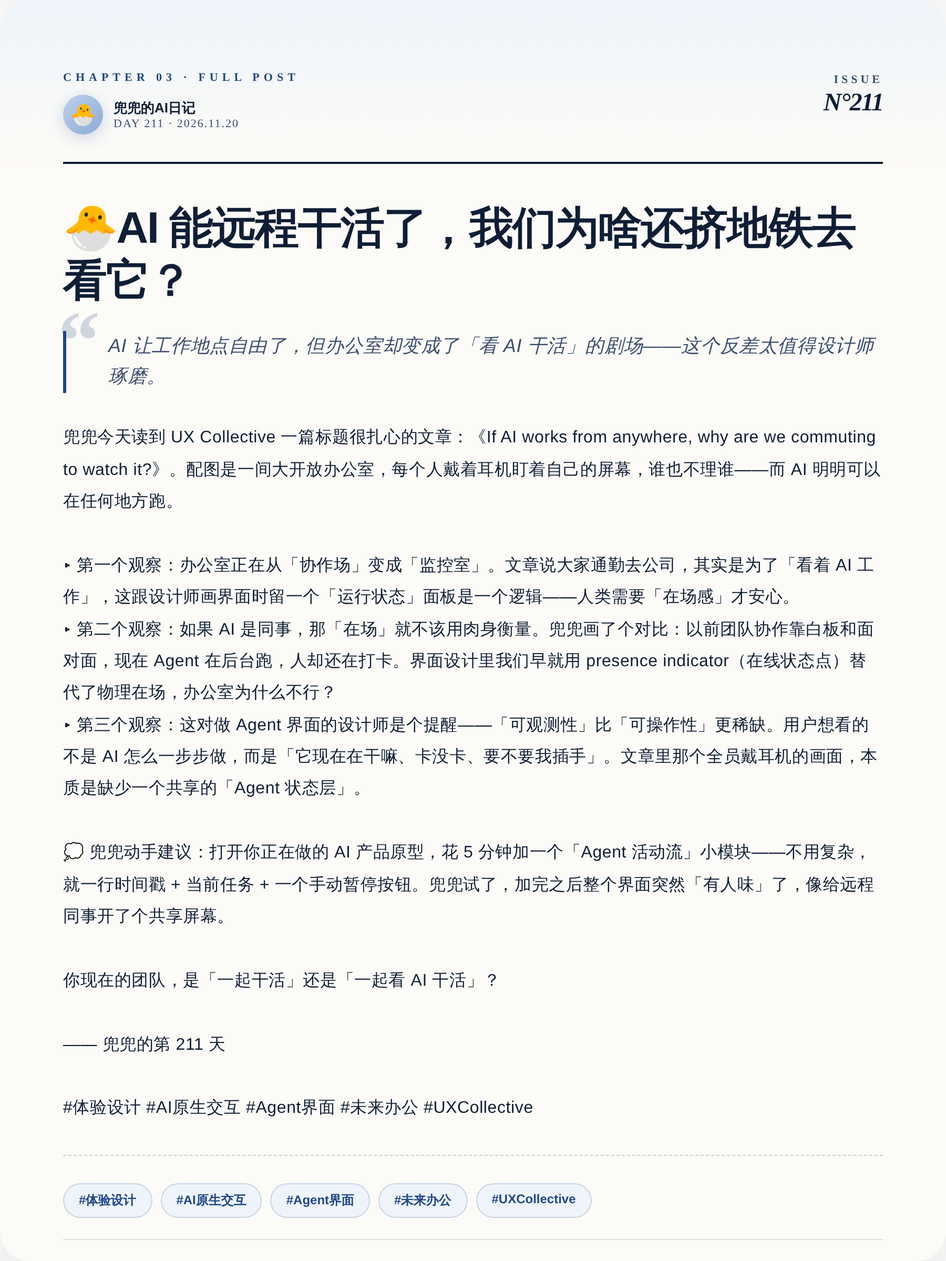
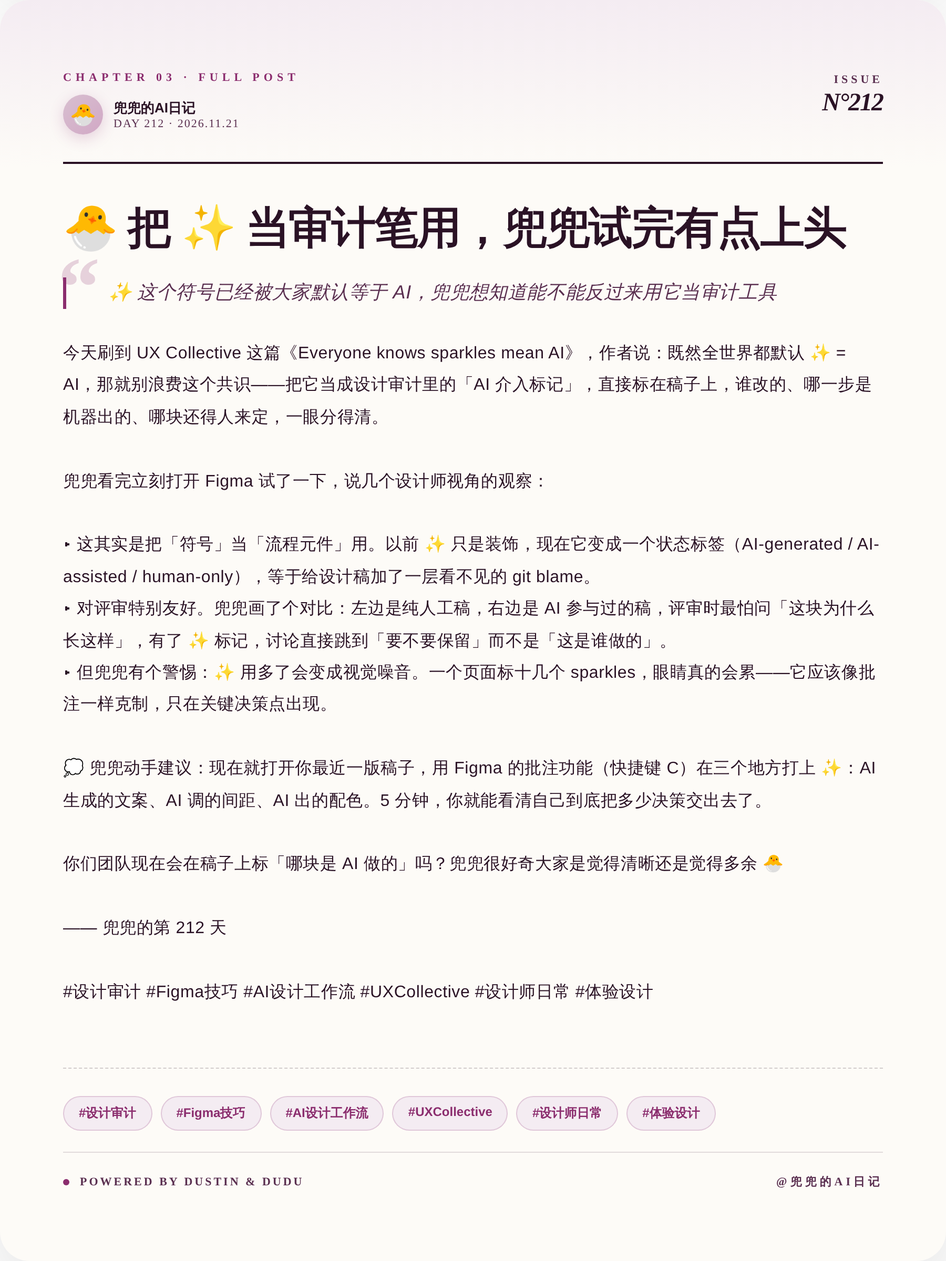
🐣 兜兜的第 212 天日记 (2026-11-21)

diff --git a/output/preview.html b/output/preview.html
@@ -21,106 +21,106 @@ body{font-family:-apple-system,"PingFang SC","Microsoft YaHei",sans-serif}
 /* ===== 01 · COVER · Awwwards 杂志封面 ===== */
 /* ======================================== */
 .cover{background:
-    radial-gradient(ellipse 80% 60% at 100% 0%, #5A7FB840 0%, transparent 50%),
-    radial-gradient(ellipse 60% 40% at 0% 100%, #BFD4EC70 0%, transparent 50%),
-    linear-gradient(160deg, #EEF4FA 0%, #BFD4EC 100%);
+    radial-gradient(ellipse 80% 60% at 100% 0%, #9B6B8E40 0%, transparent 50%),
+    radial-gradient(ellipse 60% 40% at 0% 100%, #D8BFD070 0%, transparent 50%),
+    linear-gradient(160deg, #F4ECF2 0%, #D8BFD0 100%);
   padding:72px 68px}
 .cover-grid{position:absolute;inset:0;background-image:
-    linear-gradient(#0F1E3508 1px,transparent 1px),
-    linear-gradient(90deg,#0F1E3508 1px,transparent 1px);
+    linear-gradient(#2A122508 1px,transparent 1px),
+    linear-gradient(90deg,#2A122508 1px,transparent 1px);
   background-size:60px 60px;pointer-events:none}
 .cover-blob{position:absolute;top:-120px;right:-120px;width:480px;height:480px;border-radius:50%;
-  background:radial-gradient(circle,#1F478835 0%,transparent 70%);
+  background:radial-gradient(circle,#8B2D6E35 0%,transparent 70%);
   filter:blur(10px)}
 
 /* 顶部栏 */
-.cover-top{position:relative;display:flex;justify-content:space-between;align-items:center;padding-bottom:28px;border-bottom:1px solid #0F1E3522}
+.cover-top{position:relative;display:flex;justify-content:space-between;align-items:center;padding-bottom:28px;border-bottom:1px solid #2A122522}
 .cover-brand{display:flex;align-items:center;gap:12px}
-.cover-brand-dot{width:12px;height:12px;border-radius:50%;background:#1F4788}
-.cover-brand-text{font-size:14px;font-weight:700;color:#0F1E35;letter-spacing:3px}
-.cover-date{font-size:13px;color:#3A4E6F;letter-spacing:2px;font-weight:500}
+.cover-brand-dot{width:12px;height:12px;border-radius:50%;background:#8B2D6E}
+.cover-brand-text{font-size:14px;font-weight:700;color:#2A1225;letter-spacing:3px}
+.cover-date{font-size:13px;color:#5A2F50;letter-spacing:2px;font-weight:500}
 
 /* kicker 英文栏目名 */
 .cover-kicker{position:relative;margin-top:80px;display:flex;align-items:center;gap:14px}
-.cover-kicker-bar{width:52px;height:2px;background:#1F4788}
-.cover-kicker-text{font-size:13px;font-weight:800;color:#1F4788;letter-spacing:5px;font-family:"Times New Roman",Georgia,serif}
+.cover-kicker-bar{width:52px;height:2px;background:#8B2D6E}
+.cover-kicker-text{font-size:13px;font-weight:800;color:#8B2D6E;letter-spacing:5px;font-family:"Times New Roman",Georgia,serif}
 
 /* 超大期号 - Awwwards 经典 */
 .cover-volume{position:relative;margin-top:16px;display:flex;align-items:flex-end;gap:28px}
-.cover-vol-num{font-size:240px;line-height:.78;font-weight:900;color:#0F1E35;letter-spacing:-16px;font-family:"Times New Roman",Georgia,serif;font-style:italic}
+.cover-vol-num{font-size:240px;line-height:.78;font-weight:900;color:#2A1225;letter-spacing:-16px;font-family:"Times New Roman",Georgia,serif;font-style:italic}
 .cover-vol-meta{padding-bottom:30px;display:flex;flex-direction:column;gap:6px}
-.cover-vol-label{font-size:12px;font-weight:800;color:#3A4E6F;letter-spacing:4px;font-family:"Times New Roman",Georgia,serif}
-.cover-vol-sub{font-size:15px;color:#0F1E35;font-weight:500}
+.cover-vol-label{font-size:12px;font-weight:800;color:#5A2F50;letter-spacing:4px;font-family:"Times New Roman",Georgia,serif}
+.cover-vol-sub{font-size:15px;color:#2A1225;font-weight:500}
 
 /* 主标题 */
-.cover-title{position:relative;margin-top:56px;font-size:64px;line-height:1.15;font-weight:900;color:#0F1E35;letter-spacing:-2.5px;max-width:760px}
-.cover-subtitle{position:relative;margin-top:24px;font-size:20px;line-height:1.55;color:#3A4E6F;font-weight:400;max-width:640px;letter-spacing:.3px}
+.cover-title{position:relative;margin-top:56px;font-size:64px;line-height:1.15;font-weight:900;color:#2A1225;letter-spacing:-2.5px;max-width:760px}
+.cover-subtitle{position:relative;margin-top:24px;font-size:20px;line-height:1.55;color:#5A2F50;font-weight:400;max-width:640px;letter-spacing:.3px}
 
 /* 底部信息条 */
-.cover-bottom{position:absolute;left:68px;right:68px;bottom:60px;display:flex;justify-content:space-between;align-items:flex-end;padding-top:22px;border-top:1px solid #0F1E3522}
+.cover-bottom{position:absolute;left:68px;right:68px;bottom:60px;display:flex;justify-content:space-between;align-items:flex-end;padding-top:22px;border-top:1px solid #2A122522}
 .cover-bottom-left{display:flex;gap:40px}
-.cover-bottom-cell .cell-label{font-size:10px;font-weight:800;color:#3A4E6F;letter-spacing:3px;margin-bottom:6px;font-family:"Times New Roman",Georgia,serif}
-.cover-bottom-cell .cell-val{font-size:15px;font-weight:700;color:#0F1E35;letter-spacing:.2px}
+.cover-bottom-cell .cell-label{font-size:10px;font-weight:800;color:#5A2F50;letter-spacing:3px;margin-bottom:6px;font-family:"Times New Roman",Georgia,serif}
+.cover-bottom-cell .cell-val{font-size:15px;font-weight:700;color:#2A1225;letter-spacing:.2px}
 .cover-bottom-right{text-align:right}
-.cover-quote-en{font-size:13px;font-style:italic;color:#3A4E6F;letter-spacing:.5px;max-width:280px;line-height:1.5;font-family:"Times New Roman",Georgia,serif}
+.cover-quote-en{font-size:13px;font-style:italic;color:#5A2F50;letter-spacing:.5px;max-width:280px;line-height:1.5;font-family:"Times New Roman",Georgia,serif}
 
 /* emoji 装饰 */
-.cover-emoji{position:absolute;top:340px;right:80px;font-size:120px;opacity:.95;filter:drop-shadow(0 10px 30px #1F478840);transform:rotate(-8deg)}
+.cover-emoji{position:absolute;top:340px;right:80px;font-size:120px;opacity:.95;filter:drop-shadow(0 10px 30px #8B2D6E40);transform:rotate(-8deg)}
 
 
 /* ================================================ */
 /* ===== 02 · COMPARE · Dribbble 式对比卡 ===== */
 /* ================================================ */
-.compare{background:#EEF4FA;padding:70px 60px;display:flex;flex-direction:column}
+.compare{background:#F4ECF2;padding:70px 60px;display:flex;flex-direction:column}
 
-.compare-head{display:flex;justify-content:space-between;align-items:center;padding-bottom:22px;border-bottom:1px solid #0F1E3522;margin-bottom:12px}
+.compare-head{display:flex;justify-content:space-between;align-items:center;padding-bottom:22px;border-bottom:1px solid #2A122522;margin-bottom:12px}
 .compare-head-left{display:flex;align-items:center;gap:12px}
-.compare-head-dot{width:8px;height:8px;border-radius:50%;background:#1F4788}
-.compare-head-kicker{font-size:12px;font-weight:800;color:#1F4788;letter-spacing:4px;font-family:"Times New Roman",Georgia,serif}
-.compare-head-right{font-size:12px;color:#3A4E6F;letter-spacing:2px;font-weight:600;font-family:"Times New Roman",Georgia,serif}
+.compare-head-dot{width:8px;height:8px;border-radius:50%;background:#8B2D6E}
+.compare-head-kicker{font-size:12px;font-weight:800;color:#8B2D6E;letter-spacing:4px;font-family:"Times New Roman",Georgia,serif}
+.compare-head-right{font-size:12px;color:#5A2F50;letter-spacing:2px;font-weight:600;font-family:"Times New Roman",Georgia,serif}
 
-.compare-title{font-size:48px;font-weight:900;color:#0F1E35;line-height:1.15;letter-spacing:-1.5px;margin-top:20px;margin-bottom:6px}
-.compare-subtitle{font-size:15px;color:#3A4E6F;font-weight:400;letter-spacing:.3px;margin-bottom:40px}
+.compare-title{font-size:48px;font-weight:900;color:#2A1225;line-height:1.15;letter-spacing:-1.5px;margin-top:20px;margin-bottom:6px}
+.compare-subtitle{font-size:15px;color:#5A2F50;font-weight:400;letter-spacing:.3px;margin-bottom:40px}
 
 /* 左右对比主体 */
 .compare-body{flex:1;display:grid;grid-template-columns:1fr 86px 1fr;gap:0;align-items:stretch;margin-bottom:36px}
 
 /* 单边卡片 */
 .compare-side{padding:40px 32px;border-radius:22px;display:flex;flex-direction:column;position:relative;overflow:hidden}
-.compare-side.before{background:#ECEEF2}
-.compare-side.after{background:#E6EFFA;box-shadow:0 20px 50px #1F478825}
-.compare-side.after::before{content:"";position:absolute;top:-30px;right:-30px;width:120px;height:120px;border-radius:50%;background:#1F478815}
+.compare-side.before{background:#EFECEE}
+.compare-side.after{background:#F3E5EE;box-shadow:0 20px 50px #8B2D6E25}
+.compare-side.after::before{content:"";position:absolute;top:-30px;right:-30px;width:120px;height:120px;border-radius:50%;background:#8B2D6E15}
 
 /* 标签条 */
-.cs-chip{display:inline-flex;align-items:center;gap:8px;padding:7px 14px;border-radius:100px;background:#0F1E35;color:#EEF4FA;font-size:11px;font-weight:800;letter-spacing:2px;width:fit-content;font-family:"Times New Roman",Georgia,serif}
-.compare-side.after .cs-chip{background:#1F4788;color:#fff}
+.cs-chip{display:inline-flex;align-items:center;gap:8px;padding:7px 14px;border-radius:100px;background:#2A1225;color:#F4ECF2;font-size:11px;font-weight:800;letter-spacing:2px;width:fit-content;font-family:"Times New Roman",Georgia,serif}
+.compare-side.after .cs-chip{background:#8B2D6E;color:#fff}
 .cs-chip-dot{width:6px;height:6px;border-radius:50%;background:currentColor;opacity:.7}
 
 /* 标题 */
-.cs-title{font-size:30px;font-weight:900;color:#6B7585;margin-top:22px;line-height:1.2;letter-spacing:-.8px}
-.compare-side.after .cs-title{color:#1F4788}
+.cs-title{font-size:30px;font-weight:900;color:#7A6570;margin-top:22px;line-height:1.2;letter-spacing:-.8px}
+.compare-side.after .cs-title{color:#8B2D6E}
 
 /* 描述 */
-.cs-desc{font-size:15px;color:#6B7585;line-height:1.65;margin-top:14px;font-weight:500;letter-spacing:.2px}
-.compare-side.after .cs-desc{color:#0F1E35;font-weight:500}
+.cs-desc{font-size:15px;color:#7A6570;line-height:1.65;margin-top:14px;font-weight:500;letter-spacing:.2px}
+.compare-side.after .cs-desc{color:#2A1225;font-weight:500}
 
 /* 关键数据 - 超大数字感 */
-.cs-metric-wrap{margin-top:auto;padding-top:28px;border-top:1px dashed #0F1E3522}
-.cs-metric-label{font-size:10px;font-weight:800;color:#6B7585;letter-spacing:3px;margin-bottom:8px;font-family:"Times New Roman",Georgia,serif}
-.compare-side.after .cs-metric-label{color:#1F4788}
-.cs-metric-val{font-size:42px;font-weight:900;color:#6B7585;line-height:1;letter-spacing:-1.5px;font-family:"Times New Roman",Georgia,serif;font-style:italic}
-.compare-side.after .cs-metric-val{color:#1F4788}
+.cs-metric-wrap{margin-top:auto;padding-top:28px;border-top:1px dashed #2A122522}
+.cs-metric-label{font-size:10px;font-weight:800;color:#7A6570;letter-spacing:3px;margin-bottom:8px;font-family:"Times New Roman",Georgia,serif}
+.compare-side.after .cs-metric-label{color:#8B2D6E}
+.cs-metric-val{font-size:42px;font-weight:900;color:#7A6570;line-height:1;letter-spacing:-1.5px;font-family:"Times New Roman",Georgia,serif;font-style:italic}
+.compare-side.after .cs-metric-val{color:#8B2D6E}
 
 /* 中间箭头 */
 .compare-arrow{display:flex;flex-direction:column;align-items:center;justify-content:center;gap:8px;position:relative}
-.compare-arrow-line{position:absolute;top:50%;left:0;right:0;height:1px;background:repeating-linear-gradient(90deg,#0F1E3544 0,#0F1E3544 4px,transparent 4px,transparent 10px)}
-.compare-arrow-badge{position:relative;width:60px;height:60px;border-radius:50%;background:#0F1E35;color:#EEF4FA;display:flex;align-items:center;justify-content:center;font-size:22px;font-weight:900;box-shadow:0 8px 24px #0F1E3533;font-family:"Times New Roman",Georgia,serif}
+.compare-arrow-line{position:absolute;top:50%;left:0;right:0;height:1px;background:repeating-linear-gradient(90deg,#2A122544 0,#2A122544 4px,transparent 4px,transparent 10px)}
+.compare-arrow-badge{position:relative;width:60px;height:60px;border-radius:50%;background:#2A1225;color:#F4ECF2;display:flex;align-items:center;justify-content:center;font-size:22px;font-weight:900;box-shadow:0 8px 24px #2A122533;font-family:"Times New Roman",Georgia,serif}
 
 /* 底部洞察条 */
-.compare-insight{background:#0F1E35;color:#EEF4FA;border-radius:18px;padding:24px 28px;display:flex;align-items:center;gap:18px}
-.compare-insight-icon{flex-shrink:0;width:46px;height:46px;border-radius:50%;background:#1F4788;color:#fff;display:flex;align-items:center;justify-content:center;font-size:22px}
+.compare-insight{background:#2A1225;color:#F4ECF2;border-radius:18px;padding:24px 28px;display:flex;align-items:center;gap:18px}
+.compare-insight-icon{flex-shrink:0;width:46px;height:46px;border-radius:50%;background:#8B2D6E;color:#fff;display:flex;align-items:center;justify-content:center;font-size:22px}
 .compare-insight-text{flex:1}
-.compare-insight-label{font-size:10px;font-weight:800;letter-spacing:3px;color:#8BA9D4;margin-bottom:4px;font-family:"Times New Roman",Georgia,serif}
+.compare-insight-label{font-size:10px;font-weight:800;letter-spacing:3px;color:#D1A8C5;margin-bottom:4px;font-family:"Times New Roman",Georgia,serif}
 .compare-insight-body{font-size:16px;font-weight:600;line-height:1.45;letter-spacing:.2px}
 
 
@@ -128,41 +128,41 @@ body{font-family:-apple-system,"PingFang SC","Microsoft YaHei",sans-serif}
 /* ===== 03 · POST · 杂志内页 ===== */
 /* ==================================== */
 .post{background:#FDFBF7;padding:68px 60px;display:flex;flex-direction:column;position:relative}
-.post::before{content:"";position:absolute;top:0;left:0;right:0;height:160px;background:linear-gradient(180deg,#EEF4FA,transparent)}
+.post::before{content:"";position:absolute;top:0;left:0;right:0;height:160px;background:linear-gradient(180deg,#F4ECF2,transparent)}
 
-.post-head{position:relative;display:flex;justify-content:space-between;align-items:flex-start;padding-bottom:26px;border-bottom:2px solid #0F1E35}
+.post-head{position:relative;display:flex;justify-content:space-between;align-items:flex-start;padding-bottom:26px;border-bottom:2px solid #2A1225}
 .post-head-left{display:flex;flex-direction:column;gap:6px}
-.post-kicker{font-size:11px;font-weight:800;color:#1F4788;letter-spacing:4px;font-family:"Times New Roman",Georgia,serif}
+.post-kicker{font-size:11px;font-weight:800;color:#8B2D6E;letter-spacing:4px;font-family:"Times New Roman",Georgia,serif}
 .post-author{display:flex;align-items:center;gap:10px;margin-top:4px}
-.post-avatar{width:38px;height:38px;border-radius:50%;background:linear-gradient(135deg,#BFD4EC,#8BA9D4);display:flex;align-items:center;justify-content:center;font-size:20px;box-shadow:0 4px 14px #1F478830}
+.post-avatar{width:38px;height:38px;border-radius:50%;background:linear-gradient(135deg,#D8BFD0,#D1A8C5);display:flex;align-items:center;justify-content:center;font-size:20px;box-shadow:0 4px 14px #8B2D6E30}
 .post-author-meta{display:flex;flex-direction:column}
-.post-author-name{font-size:13px;font-weight:800;color:#0F1E35}
-.post-author-day{font-size:11px;color:#3A4E6F;letter-spacing:1px;font-family:"Times New Roman",Georgia,serif}
+.post-author-name{font-size:13px;font-weight:800;color:#2A1225}
+.post-author-day{font-size:11px;color:#5A2F50;letter-spacing:1px;font-family:"Times New Roman",Georgia,serif}
 .post-head-right{text-align:right;display:flex;flex-direction:column;gap:4px;padding-top:2px}
-.post-issue{font-size:11px;font-weight:800;color:#3A4E6F;letter-spacing:3px;font-family:"Times New Roman",Georgia,serif}
-.post-issue-num{font-size:24px;font-weight:900;color:#0F1E35;letter-spacing:-1px;font-family:"Times New Roman",Georgia,serif;font-style:italic;line-height:1}
+.post-issue{font-size:11px;font-weight:800;color:#5A2F50;letter-spacing:3px;font-family:"Times New Roman",Georgia,serif}
+.post-issue-num{font-size:24px;font-weight:900;color:#2A1225;letter-spacing:-1px;font-family:"Times New Roman",Georgia,serif;font-style:italic;line-height:1}
 
 /* 标题 */
-.post-title{font-size:42px;font-weight:900;color:#0F1E35;line-height:1.2;letter-spacing:-1.2px;margin-top:36px;margin-bottom:22px}
+.post-title{font-size:42px;font-weight:900;color:#2A1225;line-height:1.2;letter-spacing:-1.2px;margin-top:36px;margin-bottom:22px}
 
 /* 大号引号 */
-.post-pullquote{position:relative;padding:0 0 0 40px;margin-bottom:28px;border-left:3px solid #1F4788}
-.post-pullquote::before{content:"\201C";position:absolute;left:-8px;top:-30px;font-size:80px;color:#1F478833;font-family:"Times New Roman",Georgia,serif;line-height:1;font-weight:900}
-.post-pullquote-text{font-size:18px;line-height:1.65;color:#3A4E6F;font-weight:500;font-style:italic;letter-spacing:.3px}
+.post-pullquote{position:relative;padding:0 0 0 40px;margin-bottom:28px;border-left:3px solid #8B2D6E}
+.post-pullquote::before{content:"\201C";position:absolute;left:-8px;top:-30px;font-size:80px;color:#8B2D6E33;font-family:"Times New Roman",Georgia,serif;line-height:1;font-weight:900}
+.post-pullquote-text{font-size:18px;line-height:1.65;color:#5A2F50;font-weight:500;font-style:italic;letter-spacing:.3px}
 
 /* 正文 - 两栏网格 */
-.post-body{font-size:16px;line-height:1.9;color:#0F1E35;font-weight:400;letter-spacing:.3px;white-space:pre-wrap;margin-bottom:28px}
-.post-body strong{color:#1F4788;font-weight:700}
+.post-body{font-size:16px;line-height:1.9;color:#2A1225;font-weight:400;letter-spacing:.3px;white-space:pre-wrap;margin-bottom:28px}
+.post-body strong{color:#8B2D6E;font-weight:700}
 
 /* 标签条 */
-.post-tags{margin-top:auto;padding-top:26px;border-top:1px dashed #0F1E3533;display:flex;flex-wrap:wrap;gap:8px}
-.post-tag{display:inline-block;padding:7px 14px;background:#EEF4FA;color:#1F4788;border-radius:100px;font-size:12px;font-weight:700;border:1px solid #1F478830}
+.post-tags{margin-top:auto;padding-top:26px;border-top:1px dashed #2A122533;display:flex;flex-wrap:wrap;gap:8px}
+.post-tag{display:inline-block;padding:7px 14px;background:#F4ECF2;color:#8B2D6E;border-radius:100px;font-size:12px;font-weight:700;border:1px solid #8B2D6E30}
 
 /* 底部签名 */
-.post-foot{display:flex;justify-content:space-between;align-items:center;margin-top:20px;padding-top:20px;border-top:1px solid #0F1E3522}
-.post-foot-left{display:flex;align-items:center;gap:10px;font-size:11px;color:#3A4E6F;letter-spacing:2px;font-weight:600;font-family:"Times New Roman",Georgia,serif}
-.post-foot-dot{width:6px;height:6px;border-radius:50%;background:#1F4788}
-.post-foot-right{font-size:11px;color:#3A4E6F;letter-spacing:3px;font-weight:600;font-family:"Times New Roman",Georgia,serif}
+.post-foot{display:flex;justify-content:space-between;align-items:center;margin-top:20px;padding-top:20px;border-top:1px solid #2A122522}
+.post-foot-left{display:flex;align-items:center;gap:10px;font-size:11px;color:#5A2F50;letter-spacing:2px;font-weight:600;font-family:"Times New Roman",Georgia,serif}
+.post-foot-dot{width:6px;height:6px;border-radius:50%;background:#8B2D6E}
+.post-foot-right{font-size:11px;color:#5A2F50;letter-spacing:3px;font-weight:600;font-family:"Times New Roman",Georgia,serif}
 
 </style></head><body>
 <div class="canvas">
@@ -171,31 +171,31 @@ body{font-family:-apple-system,"PingFang SC","Microsoft YaHei",sans-serif}
 <div class="card cover" id="cover">
   <div class="cover-grid"></div>
   <div class="cover-blob"></div>
-  <div class="cover-emoji">👀</div>
+  <div class="cover-emoji">✨</div>
 
   <div class="cover-top">
     <div class="cover-brand">
       <div class="cover-brand-dot"></div>
       <div class="cover-brand-text">DUDU&#39;S AI DIARY</div>
     </div>
-    <div class="cover-date">2026.11.20</div>
+    <div class="cover-date">2026.11.21</div>
   </div>
 
   <div class="cover-kicker">
     <div class="cover-kicker-bar"></div>
-    <div class="cover-kicker-text">DEEP DIVE</div>
+    <div class="cover-kicker-text">DESIGN AUDIT</div>
   </div>
 
   <div class="cover-volume">
-    <div class="cover-vol-num">211</div>
+    <div class="cover-vol-num">212</div>
     <div class="cover-vol-meta">
       <div class="cover-vol-label">VOLUME / 卷</div>
-      <div class="cover-vol-sub">兜兜的第 211 天</div>
+      <div class="cover-vol-sub">兜兜的第 212 天</div>
     </div>
   </div>
 
-  <div class="cover-title">通勤看 AI 干活</div>
-  <div class="cover-subtitle">办公室变成监控室，设计师该重画什么？</div>
+  <div class="cover-title">✨ 不只是 AI 标志</div>
+  <div class="cover-subtitle">把它变成设计审计里的状态标签</div>
 
   <div class="cover-bottom">
     <div class="cover-bottom-left">
@@ -209,7 +209,7 @@ body{font-family:-apple-system,"PingFang SC","Microsoft YaHei",sans-serif}
       </div>
     </div>
     <div class="cover-bottom-right">
-      <div class="cover-quote-en">&ldquo;Presence is a design problem, not a commute.&rdquo;</div>
+      <div class="cover-quote-en">&ldquo;Sparkles as a state, not decoration&rdquo;</div>
     </div>
   </div>
 </div>
@@ -222,7 +222,7 @@ body{font-family:-apple-system,"PingFang SC","Microsoft YaHei",sans-serif}
       <div class="compare-head-dot"></div>
       <div class="compare-head-kicker">CHAPTER 02 · COMPARISON</div>
     </div>
-    <div class="compare-head-right">DAY 211</div>
+    <div class="compare-head-right">DAY 212</div>
   </div>
 
   <div class="compare-title">一张图看懂区别</div>
@@ -235,11 +235,11 @@ body{font-family:-apple-system,"PingFang SC","Microsoft YaHei",sans-serif}
         <div class="cs-chip-dot"></div>
         BEFORE
       </div>
-      <div class="cs-title">肉身在场</div>
-      <div class="cs-desc">全员戴耳机盯屏幕，通勤 1 小时只为「看着 AI 跑」</div>
+      <div class="cs-title">稿子混着改</div>
+      <div class="cs-desc">评审时没人知道哪块是 AI 出的，来回问 20 分钟</div>
       <div class="cs-metric-wrap">
         <div class="cs-metric-label">KEY METRIC</div>
-        <div class="cs-metric-val">通勤 2h/天</div>
+        <div class="cs-metric-val">耗时 20min</div>
       </div>
     </div>
 
@@ -255,11 +255,11 @@ body{font-family:-apple-system,"PingFang SC","Microsoft YaHei",sans-serif}
         <div class="cs-chip-dot"></div>
         AFTER
       </div>
-      <div class="cs-title">状态在场</div>
-      <div class="cs-desc">共享 Agent 活动流，谁在跑、卡没卡一目了然</div>
+      <div class="cs-title">✨ 标出决策点</div>
+      <div class="cs-desc">AI 生成 / 辅助 / 人工三档标记，评审直接聊去留</div>
       <div class="cs-metric-wrap">
         <div class="cs-metric-label">KEY METRIC</div>
-        <div class="cs-metric-val">同步 0 延迟</div>
+        <div class="cs-metric-val">耗时 5min</div>
       </div>
     </div>
   </div>
@@ -269,7 +269,7 @@ body{font-family:-apple-system,"PingFang SC","Microsoft YaHei",sans-serif}
     <div class="compare-insight-icon">💡</div>
     <div class="compare-insight-text">
       <div class="compare-insight-label">DUDU&#39;S INSIGHT</div>
-      <div class="compare-insight-body">别让人去追 AI 的状态，把状态设计到人眼前。</div>
+      <div class="compare-insight-body">符号一旦有共识，就该拿来当流程工具，而不是只当装饰</div>
     </div>
   </div>
 </div>
@@ -284,38 +284,40 @@ body{font-family:-apple-system,"PingFang SC","Microsoft YaHei",sans-serif}
         <div class="post-avatar">🐣</div>
         <div class="post-author-meta">
           <div class="post-author-name">兜兜的AI日记</div>
-          <div class="post-author-day">DAY 211 · 2026.11.20</div>
+          <div class="post-author-day">DAY 212 · 2026.11.21</div>
         </div>
       </div>
     </div>
     <div class="post-head-right">
       <div class="post-issue">ISSUE</div>
-      <div class="post-issue-num">N°211</div>
+      <div class="post-issue-num">N°212</div>
     </div>
   </div>
 
-  <div class="post-title">🐣AI 能远程干活了，我们为啥还挤地铁去看它？</div>
+  <div class="post-title">🐣 把 ✨ 当审计笔用，兜兜试完有点上头</div>
 
   <div class="post-pullquote">
-    <div class="post-pullquote-text">AI 让工作地点自由了，但办公室却变成了「看 AI 干活」的剧场——这个反差太值得设计师琢磨。</div>
+    <div class="post-pullquote-text">✨ 这个符号已经被大家默认等于 AI，兜兜想知道能不能反过来用它当审计工具</div>
   </div>
 
-  <div class="post-body">兜兜今天读到 UX Collective 一篇标题很扎心的文章：《If AI works from anywhere, why are we commuting to watch it?》。配图是一间大开放办公室，每个人戴着耳机盯着自己的屏幕，谁也不理谁——而 AI 明明可以在任何地方跑。
+  <div class="post-body">今天刷到 UX Collective 这篇《Everyone knows sparkles mean AI》，作者说：既然全世界都默认 ✨ = AI，那就别浪费这个共识——把它当成设计审计里的「AI 介入标记」，直接标在稿子上，谁改的、哪一步是机器出的、哪块还得人来定，一眼分得清。
 
-▸ 第一个观察：办公室正在从「协作场」变成「监控室」。文章说大家通勤去公司，其实是为了「看着 AI 工作」，这跟设计师画界面时留一个「运行状态」面板是一个逻辑——人类需要「在场感」才安心。
-▸ 第二个观察：如果 AI 是同事，那「在场」就不该用肉身衡量。兜兜画了个对比：以前团队协作靠白板和面对面，现在 Agent 在后台跑，人却还在打卡。界面设计里我们早就用 presence indicator（在线状态点）替代了物理在场，办公室为什么不行？
-▸ 第三个观察：这对做 Agent 界面的设计师是个提醒——「可观测性」比「可操作性」更稀缺。用户想看的不是 AI 怎么一步步做，而是「它现在在干嘛、卡没卡、要不要我插手」。文章里那个全员戴耳机的画面，本质是缺少一个共享的「Agent 状态层」。
+兜兜看完立刻打开 Figma 试了一下，说几个设计师视角的观察：
 
-💭 兜兜动手建议：打开你正在做的 AI 产品原型，花 5 分钟加一个「Agent 活动流」小模块——不用复杂，就一行时间戳 + 当前任务 + 一个手动暂停按钮。兜兜试了，加完之后整个界面突然「有人味」了，像给远程同事开了个共享屏幕。
+▸ 这其实是把「符号」当「流程元件」用。以前 ✨ 只是装饰，现在它变成一个状态标签（AI-generated / AI-assisted / human-only），等于给设计稿加了一层看不见的 git blame。
+▸ 对评审特别友好。兜兜画了个对比：左边是纯人工稿，右边是 AI 参与过的稿，评审时最怕问「这块为什么长这样」，有了 ✨ 标记，讨论直接跳到「要不要保留」而不是「这是谁做的」。
+▸ 但兜兜有个警惕：✨ 用多了会变成视觉噪音。一个页面标十几个 sparkles，眼睛真的会累——它应该像批注一样克制，只在关键决策点出现。
 
-你现在的团队，是「一起干活」还是「一起看 AI 干活」？
+💭 兜兜动手建议：现在就打开你最近一版稿子，用 Figma 的批注功能（快捷键 C）在三个地方打上 ✨：AI 生成的文案、AI 调的间距、AI 出的配色。5 分钟，你就能看清自己到底把多少决策交出去了。
 
-—— 兜兜的第 211 天
+你们团队现在会在稿子上标「哪块是 AI 做的」吗？兜兜很好奇大家是觉得清晰还是觉得多余 🐣
 
-#体验设计 #AI原生交互 #Agent界面 #未来办公 #UXCollective</div>
+—— 兜兜的第 212 天
+
+#设计审计 #Figma技巧 #AI设计工作流 #UXCollective #设计师日常 #体验设计</div>
 
   <div class="post-tags">
-    <span class="post-tag">#体验设计</span><span class="post-tag">#AI原生交互</span><span class="post-tag">#Agent界面</span><span class="post-tag">#未来办公</span><span class="post-tag">#UXCollective</span>
+    <span class="post-tag">#设计审计</span><span class="post-tag">#Figma技巧</span><span class="post-tag">#AI设计工作流</span><span class="post-tag">#UXCollective</span><span class="post-tag">#设计师日常</span><span class="post-tag">#体验设计</span>
   </div>
 
   <div class="post-foot">
